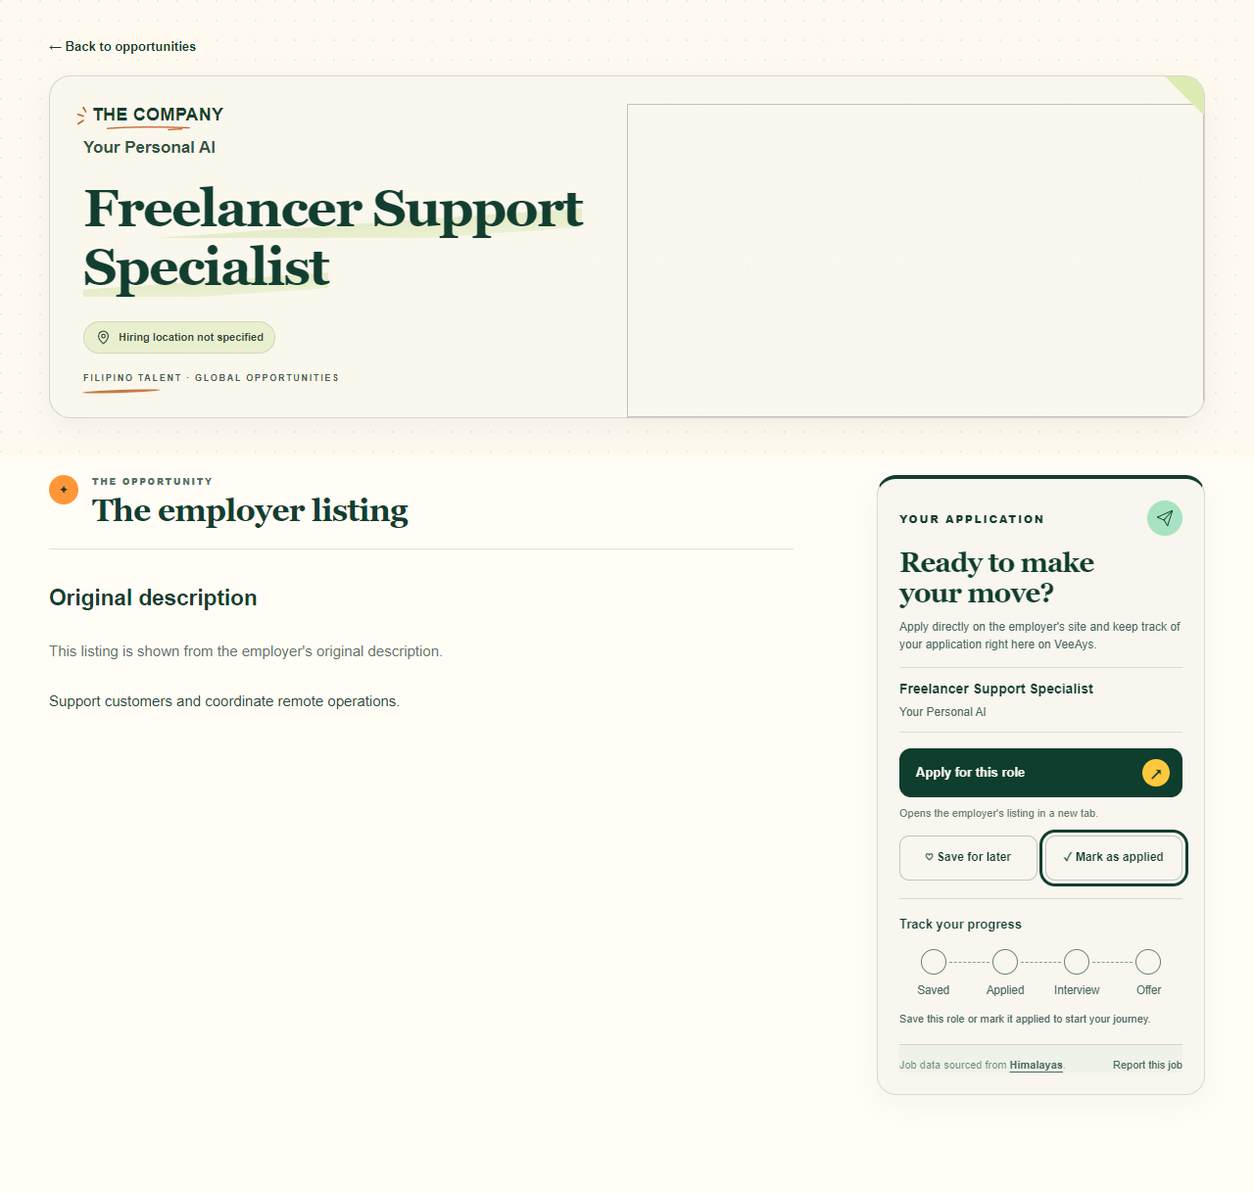
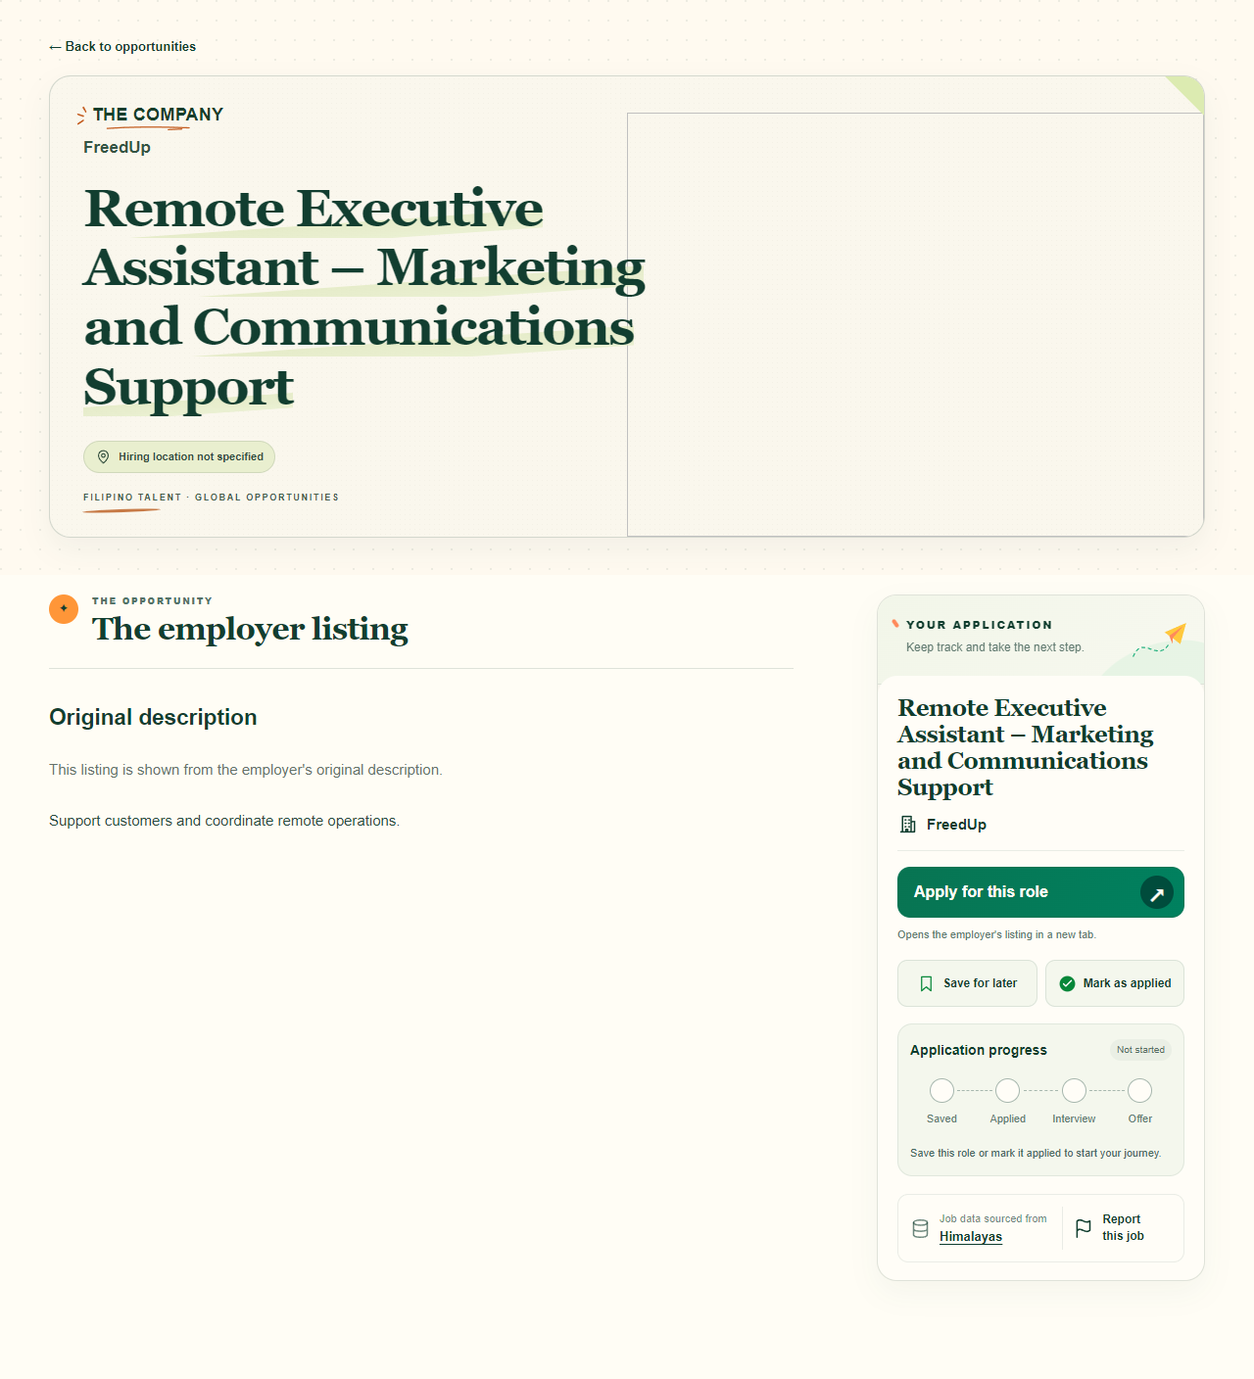
Match application sidebar to supplied VeeAys mockup

diff --git a/public/styles.css b/public/styles.css
@@ -6349,33 +6349,49 @@ label.va-switch input[type=checkbox]{position:absolute;inset:0;width:100%;height
 @media(prefers-reduced-motion:reduce){.va-switch-track,.va-switch-track:before{transition:none}}
 @media(forced-colors:active){.va-switch-track{border-color:ButtonText;background:Canvas}.va-switch-track:before{background:ButtonText}.va-switch input:checked+.va-switch-control .va-switch-track{background:Highlight;border-color:Highlight}.va-switch input:checked+.va-switch-control .va-switch-track:before{background:HighlightText}.va-switch input:focus-visible+.va-switch-control .va-switch-track{outline-color:Highlight}}
 
-/* Branded application sidebar: presentation only; forms and progress retain their contracts. */
-.job-detail-sidebar .job-detail-snapshot{background:#F8F6EE;color:#0F3D2E;border:1px solid #0f3d2e26;border-top:4px solid #0F3D2E;padding:22px;border-radius:20px;box-shadow:0 10px 28px #0f3d2e0a;}
-.job-detail-sidebar .job-detail-snapshot-kicker{display:flex;justify-content:space-between;align-items:center;margin:0 0 12px;color:#0F3D2E;font-size:11px;letter-spacing:1.7px;line-height:1.4;}
-.job-application-plane{width:36px;height:36px;flex:none;color:#0F3D2E;background:#A7E3C1;border-radius:50%;padding:7px;box-sizing:border-box;}
-.job-detail-sidebar .job-detail-snapshot h2{font-size:28px;line-height:1.1;color:#0F3D2E;margin-bottom:10px;}
-.job-detail-sidebar .job-application-intro{font-size:12px;line-height:1.5;margin-bottom:14px;}
-.job-detail-sidebar .job-application-identity{margin-bottom:16px;padding:12px 0;}
-.job-detail-sidebar .job-application-identity strong{color:#0F3D2E;font-size:14px;}
-.job-detail-sidebar .job-detail-apply{background:#0F3D2E;color:#F8F6EE;border:1px solid #0F3D2E;border-radius:12px;min-height:50px;padding:8px 12px 8px 16px;box-shadow:none;font-weight:700;}
-.job-detail-sidebar .job-detail-apply b{width:28px;height:28px;flex-basis:28px;background:#FFC83D;color:#0F3D2E;border:0;font-size:18px;}
-.job-detail-sidebar .job-detail-apply:hover{background:#17563f;transform:none;box-shadow:none;}
-.job-detail-sidebar .job-detail-external{margin:8px 0 14px;font-size:11px;line-height:1.5;}
-.job-detail-sidebar .job-detail-user-actions{grid-template-columns:minmax(0,1fr) minmax(0,1fr);gap:8px;margin:14px 0 0;}
+/* Application sidebar follows the approved VeeAys cream-card mockup. */
+.job-detail-sidebar .job-detail-snapshot{padding:0;border:1px solid #0f3d2e1c;border-radius:20px;background:#F8F6EE;box-shadow:0 12px 30px #0f3d2e0b;color:#0F3D2E;}
+.job-application-header{position:relative;isolation:isolate;overflow:hidden;padding:22px 22px 28px;background:linear-gradient(120deg,#f2f6e9,#f7f8ef);}
+.job-application-header::before{content:'';position:absolute;z-index:-1;width:150px;height:90px;right:-30px;bottom:-50px;border-radius:50%;background:#A7E3C130;transform:rotate(-20deg);}
+.job-detail-sidebar .job-detail-snapshot-kicker{position:relative;display:block;margin:0 45px 7px 7px;color:#0F3D2E;font-size:11px;font-weight:800;letter-spacing:1.8px;line-height:1.4;}
+.job-detail-sidebar .job-detail-snapshot-kicker::before{content:'';position:absolute;left:-13px;top:2px;width:4px;height:9px;background:#FF8A5B;border-radius:4px;transform:rotate(-35deg);}
+.job-application-header p{margin:0 45px 0 7px;color:#617a70;font-size:12px;line-height:1.5;}
+.job-application-plane{position:absolute;right:14px;top:24px;width:60px;height:44px;}
+.job-application-body{position:relative;padding:20px 20px 18px;border-radius:20px;background:#fffdf7;margin-top:-9px;}
+.job-detail-sidebar .job-application-identity{display:block;margin:0 0 16px;padding:0 0 16px;border-top:0;border-bottom:1px solid #0f3d2e17;overflow-wrap:anywhere;}
+.job-detail-sidebar .job-application-identity h2{margin:0 0 13px;font-size:24px;line-height:1.12;letter-spacing:-.5px;color:#0F3D2E;}
+.job-detail-sidebar .job-application-identity>span{display:flex;align-items:center;gap:9px;font-size:15px;font-weight:650;color:#0F3D2E;line-height:1.4;}
+.application-icon{width:21px;height:21px;flex:0 0 21px;vertical-align:middle;}
+.job-detail-sidebar .job-detail-apply{box-sizing:border-box;min-height:52px;padding:8px 10px 8px 16px;border:1px solid #087452;border-radius:13px;background:linear-gradient(110deg,#087452,#00815f);color:#fffdf7;box-shadow:none;font-size:16px;font-weight:700;gap:8px;}
+.job-detail-sidebar .job-detail-apply b{width:34px;height:34px;flex-basis:34px;border:0;background:#004c3c;color:#fffdf7;font-size:23px;}
+.job-detail-sidebar .job-detail-apply:hover{background:#0F3D2E;box-shadow:none;transform:none;}
+.job-detail-sidebar .job-detail-external{margin:9px 0 18px;color:#617a70;font-size:11px;line-height:1.5;}
+.job-detail-sidebar .job-detail-user-actions{grid-template-columns:minmax(0,1fr) minmax(0,1fr);gap:8px;margin:0;}
 .job-detail-sidebar .job-detail-user-actions>*{min-width:0;}
 .job-detail-sidebar .job-detail-user-actions .save-intent-note{grid-column:1/-1;box-sizing:border-box;}
-.job-detail-sidebar .job-detail-save,.job-detail-sidebar .job-detail-track{padding:9px 6px;min-height:46px;height:100%;border-radius:10px;font-size:12px;line-height:1.4;font-weight:600;color:#0F3D2E;background:#F8F6EE;border-color:#0f3d2e40;text-align:center;white-space:normal;}
+.job-detail-sidebar .job-detail-save,.job-detail-sidebar .job-detail-track{box-sizing:border-box;height:100%;min-height:48px;padding:10px 6px;gap:7px;border-radius:10px;border:1px solid #0f3d2e1c;background:#f4f7ed;color:#0F3D2E;font-size:12px;font-weight:650;line-height:1.35;text-align:center;white-space:normal;}
+.job-detail-sidebar .job-detail-user-actions .application-icon{color:#078739;width:19px;height:19px;flex-basis:19px;}
 .job-detail-sidebar .job-detail-save.is-saved,.job-detail-sidebar .job-detail-track.is-tracked{background:#A7E3C1;}
-.job-detail-sidebar .job-detail-save:hover,.job-detail-sidebar .job-detail-track:hover{background:#A7E3C1;border-color:#0F3D2E;}
-.job-detail-sidebar .job-application-progress{margin-top:18px;padding-top:16px;border-top:1px solid #0f3d2e26;}
-.job-detail-sidebar .job-application-progress h3{color:#0F3D2E;margin-bottom:14px;}
-.job-detail-sidebar .job-progress-dot{background:#F8F6EE;border-color:#698377;color:#0F3D2E;}
-.job-detail-sidebar .is-complete .job-progress-dot{background:#A7E3C1;border-color:#22B07D;}
-.job-detail-sidebar .is-current .job-progress-dot{outline-color:#0F3D2E;}
-.job-detail-sidebar .job-application-progress p{margin-top:12px;}
-.job-application-footer{display:flex;flex-wrap:wrap;align-items:baseline;justify-content:space-between;gap:8px;margin-top:16px;padding-top:12px;border-top:1px solid #0f3d2e26;font-size:11px;line-height:1.5;color:#49685e;}
-.job-detail-sidebar .job-detail-source{margin:0;font-size:11px;line-height:1.5;}
-.job-application-footer a{color:#49685e;text-underline-offset:3px;}
-.job-application-footer [role=status]{flex-basis:100%;margin:0;}
+.job-detail-sidebar .job-detail-save:hover,.job-detail-sidebar .job-detail-track:hover{background:#e5f1df;border-color:#22B07D;}
+.job-detail-sidebar .job-application-progress{margin-top:17px;padding:15px 12px;border:1px solid #0f3d2e16;border-radius:15px;background:#f4f7ed;}
+.job-progress-heading{display:flex;justify-content:space-between;align-items:center;gap:6px;margin-bottom:18px;}
+.job-detail-sidebar .job-application-progress h3{margin:0;color:#0F3D2E;font-size:14px;line-height:1.3;}
+.job-progress-status{flex:none;padding:4px 7px;border-radius:99px;background:#0f3d2e0b;color:#526d62;font-size:10px;line-height:1.4;}
+.job-detail-sidebar .job-application-progress ol{gap:3px;}
+.job-detail-sidebar .job-application-progress li{font-size:11px;gap:8px;color:#617a70;}
+.job-detail-sidebar .job-progress-dot{width:25px;height:25px;border:1.5px solid #a7b7ae;background:#fffdf7;}
+.job-detail-sidebar .job-application-progress li:not(:last-child)::after{top:12px;left:calc(50% + 16px);width:calc(100% - 29px);border-color:#a7b7ae;}
+.job-detail-sidebar .is-complete .job-progress-dot{background:#A7E3C1;color:#0F3D2E;border-color:#22B07D;}
+.job-detail-sidebar .is-current{color:#0F3D2E;}
+.job-detail-sidebar .is-current .job-progress-dot{outline:2px solid #0F3D2E;outline-offset:2px;}
+.job-detail-sidebar .job-application-progress p{margin:17px 0 0;font-size:11px;line-height:1.5;}
+.job-application-footer{display:grid;grid-template-columns:minmax(0,1.3fr) minmax(0,1fr);align-items:center;background:#fffdf7;gap:10px;margin-top:18px;padding:12px;border:1px solid #0f3d2e16;border-radius:11px;font-size:11px;line-height:1.45;color:#617a70;}
+.job-detail-sidebar .job-detail-source{display:flex;flex:1 1 120px;align-items:center;gap:9px;margin:0;padding:0;background:none;font-size:11px;line-height:1.5;}
+.job-detail-source>span{display:grid;}
+.job-application-footer a{color:#0F3D2E;text-underline-offset:3px;}
+.job-detail-source a{font-size:13px;font-weight:650;}
+.job-application-footer>a{display:flex;min-height:44px;flex:0 1 80px;align-items:center;gap:9px;padding-left:10px;border-left:1px solid #0f3d2e16;text-decoration:none;font-size:12px;font-weight:650;}
+.job-application-footer>a span{white-space:nowrap;}
+.job-application-footer [role=status]{grid-column:1/-1;margin:0;}
 .job-detail-sidebar a:focus-visible,.job-detail-sidebar button:focus-visible{outline:3px solid #0F3D2E;outline-offset:3px;}
-@media(max-width:480px){.job-detail-sidebar .job-detail-snapshot{padding:20px 16px;}.job-detail-sidebar .job-detail-snapshot h2{font-size:28px;}}
+@media(max-width:480px){.job-detail-sidebar .job-detail-snapshot{padding:0;}.job-application-header{padding:20px 18px 26px;}.job-application-body{padding:18px 15px 16px;}.job-detail-sidebar .job-application-identity h2{font-size:23px;}.job-detail-sidebar .job-detail-save,.job-detail-sidebar .job-detail-track{gap:5px;font-size:11px;}.job-detail-sidebar .job-application-progress{padding:14px 10px;}.job-detail-sidebar .job-application-progress h3{font-size:13px;}.job-progress-status{font-size:9px;}}

diff --git a/src/render.js b/src/render.js
@@ -980,8 +980,19 @@ function formatJobDescription(text = '') {
   return html;
 }
 
+function applicationPanelIcon(name) {
+  const paths = {
+  "company": "<path d=\"M4 21h16M6 21V3h10v18M16 9h4v12M9 7h1m3 0h1M9 11h1m3 0h1M9 15h1m3 0h1M10 21v-3h2v3\"/>",
+  "bookmark": "<path d=\"M6 21V3h12v18l-6-5-6 5Z\"/>",
+  "check": "<circle cx=\"12\" cy=\"12\" r=\"10\" fill=\"currentColor\" stroke=\"none\"/><path d=\"m7 12 3 3 7-7\" stroke=\"#fff\"/>",
+  "source": "<ellipse cx=\"12\" cy=\"5\" rx=\"8\" ry=\"3\"/><path d=\"M4 5v14c0 4 16 4 16 0V5M4 12c0 4 16 4 16 0\"/>",
+  "flag": "<path d=\"M5 22V3c5-5 9 5 15 0v11c-6 5-10-5-15 0\"/>"
+};
+  return `<svg class="application-icon" viewBox="0 0 24 24" fill="none" stroke="currentColor" stroke-width="1.7" stroke-linecap="round" stroke-linejoin="round" aria-hidden="true">${paths[name]}</svg>`;
+}
+
 function renderApplicationProgress({ user, saved, application }) {
-  if (!user) return '<section class="job-application-progress"><h3>Track your progress</h3><p>Create a free VeeAys account to save jobs and track your progress.</p></section>';
+  if (!user) return '<section class="job-application-progress"><h3>Application progress</h3><p>Create a free VeeAys account to save jobs and track your progress.</p></section>';
   const status = application?.status;
   const labels = { applied: 'Applied', interview: 'Interview', offer: 'Offer', hired: 'Hired', rejected: 'Rejected', withdrawn: 'Withdrawn' };
   const rank = { applied: 1, interview: 2, offer: 3, hired: 4 }[status] || 0;
@@ -989,7 +1000,7 @@ function renderApplicationProgress({ user, saved, application }) {
   const steps = [['saved', 'Saved'], ['applied', 'Applied'], ['interview', 'Interview'], ['offer', 'Offer']];
   if (status === 'hired') steps.push(['hired', 'Hired']);
   return `<section class="job-application-progress" aria-label="Application progress">
-    <h3>Track your progress</h3>
+    <div class="job-progress-heading"><h3>Application progress</h3><span class="job-progress-status">${esc(labels[status] || (saved ? 'Saved' : 'Not started'))}</span></div>
     <ol>${steps.map(([key, label], index) => {
       // Saved is independent of application status; closed outcomes imply no later stage.
       const done = index === 0 ? saved : (closed ? index === 1 : rank >= index);
@@ -1082,12 +1093,13 @@ export function detail(job, { user = null, saved = false, application = null, sa
 
           <div class="job-detail-snapshot">
 
-            <div class="job-detail-snapshot-kicker">YOUR APPLICATION <svg class="job-application-plane" aria-hidden="true" viewBox="0 0 48 48" fill="none"><path d="M7 22 41 7 30 41l-8-13-15-6Z" stroke="currentColor" stroke-width="2" stroke-linejoin="round"/><path d="m22 28 19-21" stroke="currentColor" stroke-width="2"/></svg></div>
-
-
-            <h2>Ready to make<br>your move?</h2>
-            <p class="job-application-intro">Apply directly on the employer's site and keep track of your application right here on VeeAys.</p>
-            <div class="job-application-identity"><strong>${esc(title)}</strong><span>${esc(company)}</span></div>
+            <header class="job-application-header">
+              <div class="job-detail-snapshot-kicker">YOUR APPLICATION</div>
+              <p>Keep track and take the next step.</p>
+              <svg class="job-application-plane" aria-hidden="true" viewBox="0 0 100 70" fill="none"><path d="M3 62c16-39 42 13 61-22" stroke="#22B07D" stroke-width="2" stroke-linecap="round" stroke-dasharray="5 6"/><path d="m56 21 37-16-10 36-13-10-14-10Z" fill="#FFC83D"/><path d="m70 31 18-21-24 17 6 14Z" fill="#FF8A5B"/></svg>
+            </header>
+            <div class="job-application-body">
+              <div class="job-application-identity"><h2>${esc(title)}</h2><span>${applicationPanelIcon('company')}${esc(company)}</span></div>
 
             ${
               apply
@@ -1112,8 +1124,8 @@ export function detail(job, { user = null, saved = false, application = null, sa
 
             <div class="job-detail-user-actions">
               ${saveIntent && user && !saved ? '<p class="save-intent-note">You’re signed in. Save this job so you can come back to it anytime.</p>' : ''}
-              ${user ? `<form method="post" action="${saved ? '/unsave-job' : '/save-job'}"><input type="hidden" name="job_id" value="${esc(job.id)}"><input type="hidden" name="return_to" value="${jobPath(job)}"><button class="job-detail-save${saved ? ' is-saved' : ''}" type="submit">${saved ? '♥ Unsave job' : '♡ Save for later'}</button></form>` : `<a class="job-detail-save" href="/signup?return=${encodeURIComponent(jobPath(job) + '?save=1')}">♡ Save for later</a>`}
-              ${user && !application ? `<form method="post" action="/mark-applied"><input type="hidden" name="job_id" value="${esc(job.id)}"><input type="hidden" name="return_to" value="${jobPath(job)}"><button class="job-detail-track" type="submit">✓ Mark as applied</button></form>` : ''}
+              ${user ? `<form method="post" action="${saved ? '/unsave-job' : '/save-job'}"><input type="hidden" name="job_id" value="${esc(job.id)}"><input type="hidden" name="return_to" value="${jobPath(job)}"><button class="job-detail-save${saved ? ' is-saved' : ''}" type="submit">${applicationPanelIcon('bookmark')}${saved ? 'Unsave job' : 'Save for later'}</button></form>` : `<a class="job-detail-save" href="/signup?return=${encodeURIComponent(jobPath(job) + '?save=1')}">${applicationPanelIcon('bookmark')}Save for later</a>`}
+              ${user && !application ? `<form method="post" action="/mark-applied"><input type="hidden" name="job_id" value="${esc(job.id)}"><input type="hidden" name="return_to" value="${jobPath(job)}"><button class="job-detail-track" type="submit">${applicationPanelIcon('check')}Mark as applied</button></form>` : ''}
               ${user && application ? `<a class="job-detail-track is-tracked" href="/my-jobs">Update application</a>` : ''}
             </div>
 
@@ -1123,18 +1135,18 @@ export function detail(job, { user = null, saved = false, application = null, sa
 ${
   isHimalayas
     ? `<p class="job-detail-source">
-        Job data sourced from
+        ${applicationPanelIcon('source')}<span>Job data sourced from
         <a
           href="https://himalayas.app/"
           target="_blank"
           rel="noopener noreferrer"
-        >Himalayas</a>.
+        >Himalayas</a></span>
       </p>`
     : ''
 }
-              ${reportsEnabled ? `<a href="/jobs/${esc(job.id)}/report">Report this job</a>${reported ? '<p role="status">Thank you. Your report has been sent for review.</p>' : ''}` : ''}
+              ${reportsEnabled ? `<a href="/jobs/${esc(job.id)}/report">${applicationPanelIcon('flag')}<span>Report<br>this job</span></a>${reported ? '<p role="status">Thank you. Your report has been sent for review.</p>' : ''}` : ''}
             </footer>
-
+            </div>
           </div>
 
         </aside>

diff --git a/test/job-application-panel.test.js b/test/job-application-panel.test.js
@@ -7,7 +7,7 @@ const user={id:'u'};
 const panel=options=>detail(job,options).split('<aside class="job-detail-sidebar">')[1].split('</aside>')[0];
 test('application panel uses exact escaped identity and safe apply route, retaining attribution',()=>{
  const html=panel({user});
- assert.match(html,/YOUR APPLICATION/);assert.match(html,/Ready to make/);
+ assert.match(html,/YOUR APPLICATION/);assert.match(html,/Keep track and take the next step/);
  assert.match(html,/Freelancer Support Specialist &lt;Senior&gt;/);
  assert.match(html,/Your Personal AI/);assert.match(html,/job-application-plane/);
  assert.doesNotMatch(html,/OPPORTUNITY SNAPSHOT|<dl>|<dt>|Location|Workplace|Category|Posted/);
@@ -21,7 +21,7 @@ test('save and unsave forms keep return intent and independent saved state',()=>
   const html=panel({user,saved});
   assert.match(html,new RegExp(`action="/${saved?'unsave':'save'}-job"`));
   assert.match(html,/name="return_to" value="\/jobs\/101"/);
-  assert.match(html,saved?/♥ Unsave job/:/♡ Save for later/);
+  assert.match(html,saved?/Unsave job/:/Save for later/);
   assert.match(html,/action="\/mark-applied"/);
   assert.equal(/aria-current="step"/.test(html),saved);
  }
@@ -79,4 +79,18 @@ test('primary action precedes secondary actions, progress and quiet report foote
  assert.match(html,/<footer class="job-application-footer">[\s\S]*himalayas.app[\s\S]*href="\/jobs\/101\/report"/);
  assert.match(html,/role="status">Thank you/);
  assert.doesNotMatch(panel({user}),/href="\/jobs\/101\/report"/);
+});
+
+
+test('mockup hierarchy uses the escaped job title, decorative icons and truthful status badge',()=>{
+ const html=panel({user});
+ assert.match(html,/<h2>Freelancer Support Specialist &lt;Senior&gt;<\/h2>/);
+ assert.doesNotMatch(html,/Ready to make|job-application-initials/);
+ assert.match(html,/job-progress-status">Not started</);
+ assert.match(panel({user,saved:true}),/job-progress-status">Saved</);
+ for(const status of ['applied','interview','offer','hired','rejected','withdrawn']) {
+  const current=panel({user,application:{status}});
+  assert.match(current,new RegExp('job-progress-status">'+status[0].toUpperCase()+status.slice(1)+'<'));
+ }
+ assert.match(html,/<svg class="application-icon"[^>]*aria-hidden="true"/);
 });

diff --git a/docs/application-sidebar.md b/docs/application-sidebar.md
@@ -1,25 +1,32 @@
-# Application sidebar redesign
+# Application sidebar — supplied mockup revision
 
-Based on PR #10 merge cb1262e9daa18a9139bbf25624cfd56ae2fc12e4, targeting codex/recovered-production-auth-081b6577 (the branch into which #10 was merged).
+PR #11 is based on PR #10 merge cb1262e9daa18a9139bbf25624cfd56ae2fc12e4, targeting codex/recovered-production-auth-081b6577.
 
-Cream/deep-green panel with a restrained decorative paper plane, primary Apply action, side-by-side secondary actions, existing progress and a quiet attribution/report footer. Uses #0F3D2E, #22B07D, #A7E3C1, #FFC83D and #F8F6EE; coral is reserved rather than added as extra decoration. Follows the user’s written approved design; the referenced chat did not expose its mockup image.
+The supplied **VeeAys Job Application Sidebar.png** is the primary visual reference. This revision replaces the previous callout headline with the job title as the main serif heading and follows the reference’s layered cream cards, compact green-tinted header, yellow/orange paper plane, green Apply button with dark arrow disc, icon-led secondary buttons, inset progress card/status badge, and bordered source/report footer. Decorative artwork stays within the header rather than adding height. The existing official logo is untouched.
 
-Only detail markup and scoped CSS change application behavior presentation. Routes, form names/values, signup intent, save/unsave, applied/status logic, attribution, reports flag and acknowledgement are preserved. Free/Pro access and backend code are unchanged. No merge or deployment performed.
+The screenshot fixture uses the reference’s title and company for comparison. The sidebar adapts to the existing 335px desktop column and mobile widths, rather than reproducing the reference image’s 800px-wide presentation literally. Saved circles reflect actual saved state; an unsaved role is not displayed as saved merely to imitate the image. Hired and closed outcomes retain their existing semantics.
+
+Only detail markup and scoped CSS change presentation. Routes, form names/values, signup intent, save/unsave, applied/status logic, attribution, reports flag and acknowledgement are preserved. Free/Pro access and backend code are unchanged. No merge or deployment performed.
 
 ## Validation
 
-- 23 focused tests passed: job-application-panel, job-final-polish, job-detail-header and home-save.
-- Build: Wrangler deploy --dry-run passed (local log path). No deployment.
-- git diff --check passed.
-- Chrome local fixtures rendered using the actual detail renderer and repository stylesheet at 320, 390, 768 and 1280px: no horizontal overflow; secondary buttons share a row; visible keyboard focus; Tab follows Apply → Save → Mark applied → source → Report.
-- Space on Save and Enter on Mark applied fire native submissions with original actions, job_id and return_to, intercepted locally to avoid mutations. Browser results: [browser-checks.json](application-sidebar/browser-checks.json).
-- Long title/company fixtures and saved, applied, interview, offer, hired, rejected, withdrawn and anonymous states checked for overflow at desktop width; semantic state assertions cover every outcome.
-- These are synthetic local fixtures, not authenticated production checks. Existing auth gates are covered by focused tests.
+- 24 focused tests passed: job-application-panel, job-final-polish, job-detail-header and home-save.
+- Wrangler dry-run build and git diff --check passed. No deployment.
+- Chrome local fixtures use the actual detail renderer and repository stylesheet at 320, 390, 768 and 1280px: no horizontal overflow; secondary buttons share a row; visible keyboard focus; Tab follows Apply → Save → Mark applied → source → Report.
+- Space on Save and Enter on Mark applied fire native submissions with original actions, job_id and return_to, intercepted locally to avoid mutations. Results: [browser-checks.json](application-sidebar/browser-checks.json).
+- Long title/company fixtures and saved, applied, interview, offer, hired, rejected, withdrawn and anonymous states checked for overflow at all four widths. Semantic tests cover all application outcomes and the status badge.
+- Synthetic local fixtures, not authenticated production checks. Existing auth gates are covered by focused tests. Whole-page images show the local job-detail fixture without site navigation.
 
-## Screenshots
+## Updated screenshots
 
-[Desktop page](application-sidebar/page-1280.png) · [Mobile page](application-sidebar/page-390.png)
+[Desktop page fixture](application-sidebar/page-1280.png) · [Mobile page fixture](application-sidebar/page-390.png)
+
+Desktop sidebar (1280px viewport):
 
 ![Desktop panel](application-sidebar/panel-1280.png)
 
-![320px panel with keyboard focus](application-sidebar/panel-320.png)
+Mobile sidebar (390px viewport):
+
+![Mobile panel](application-sidebar/panel-390.png)
+
+[Narrow 320px panel](application-sidebar/panel-320.png) · [768px panel](application-sidebar/panel-768.png)
